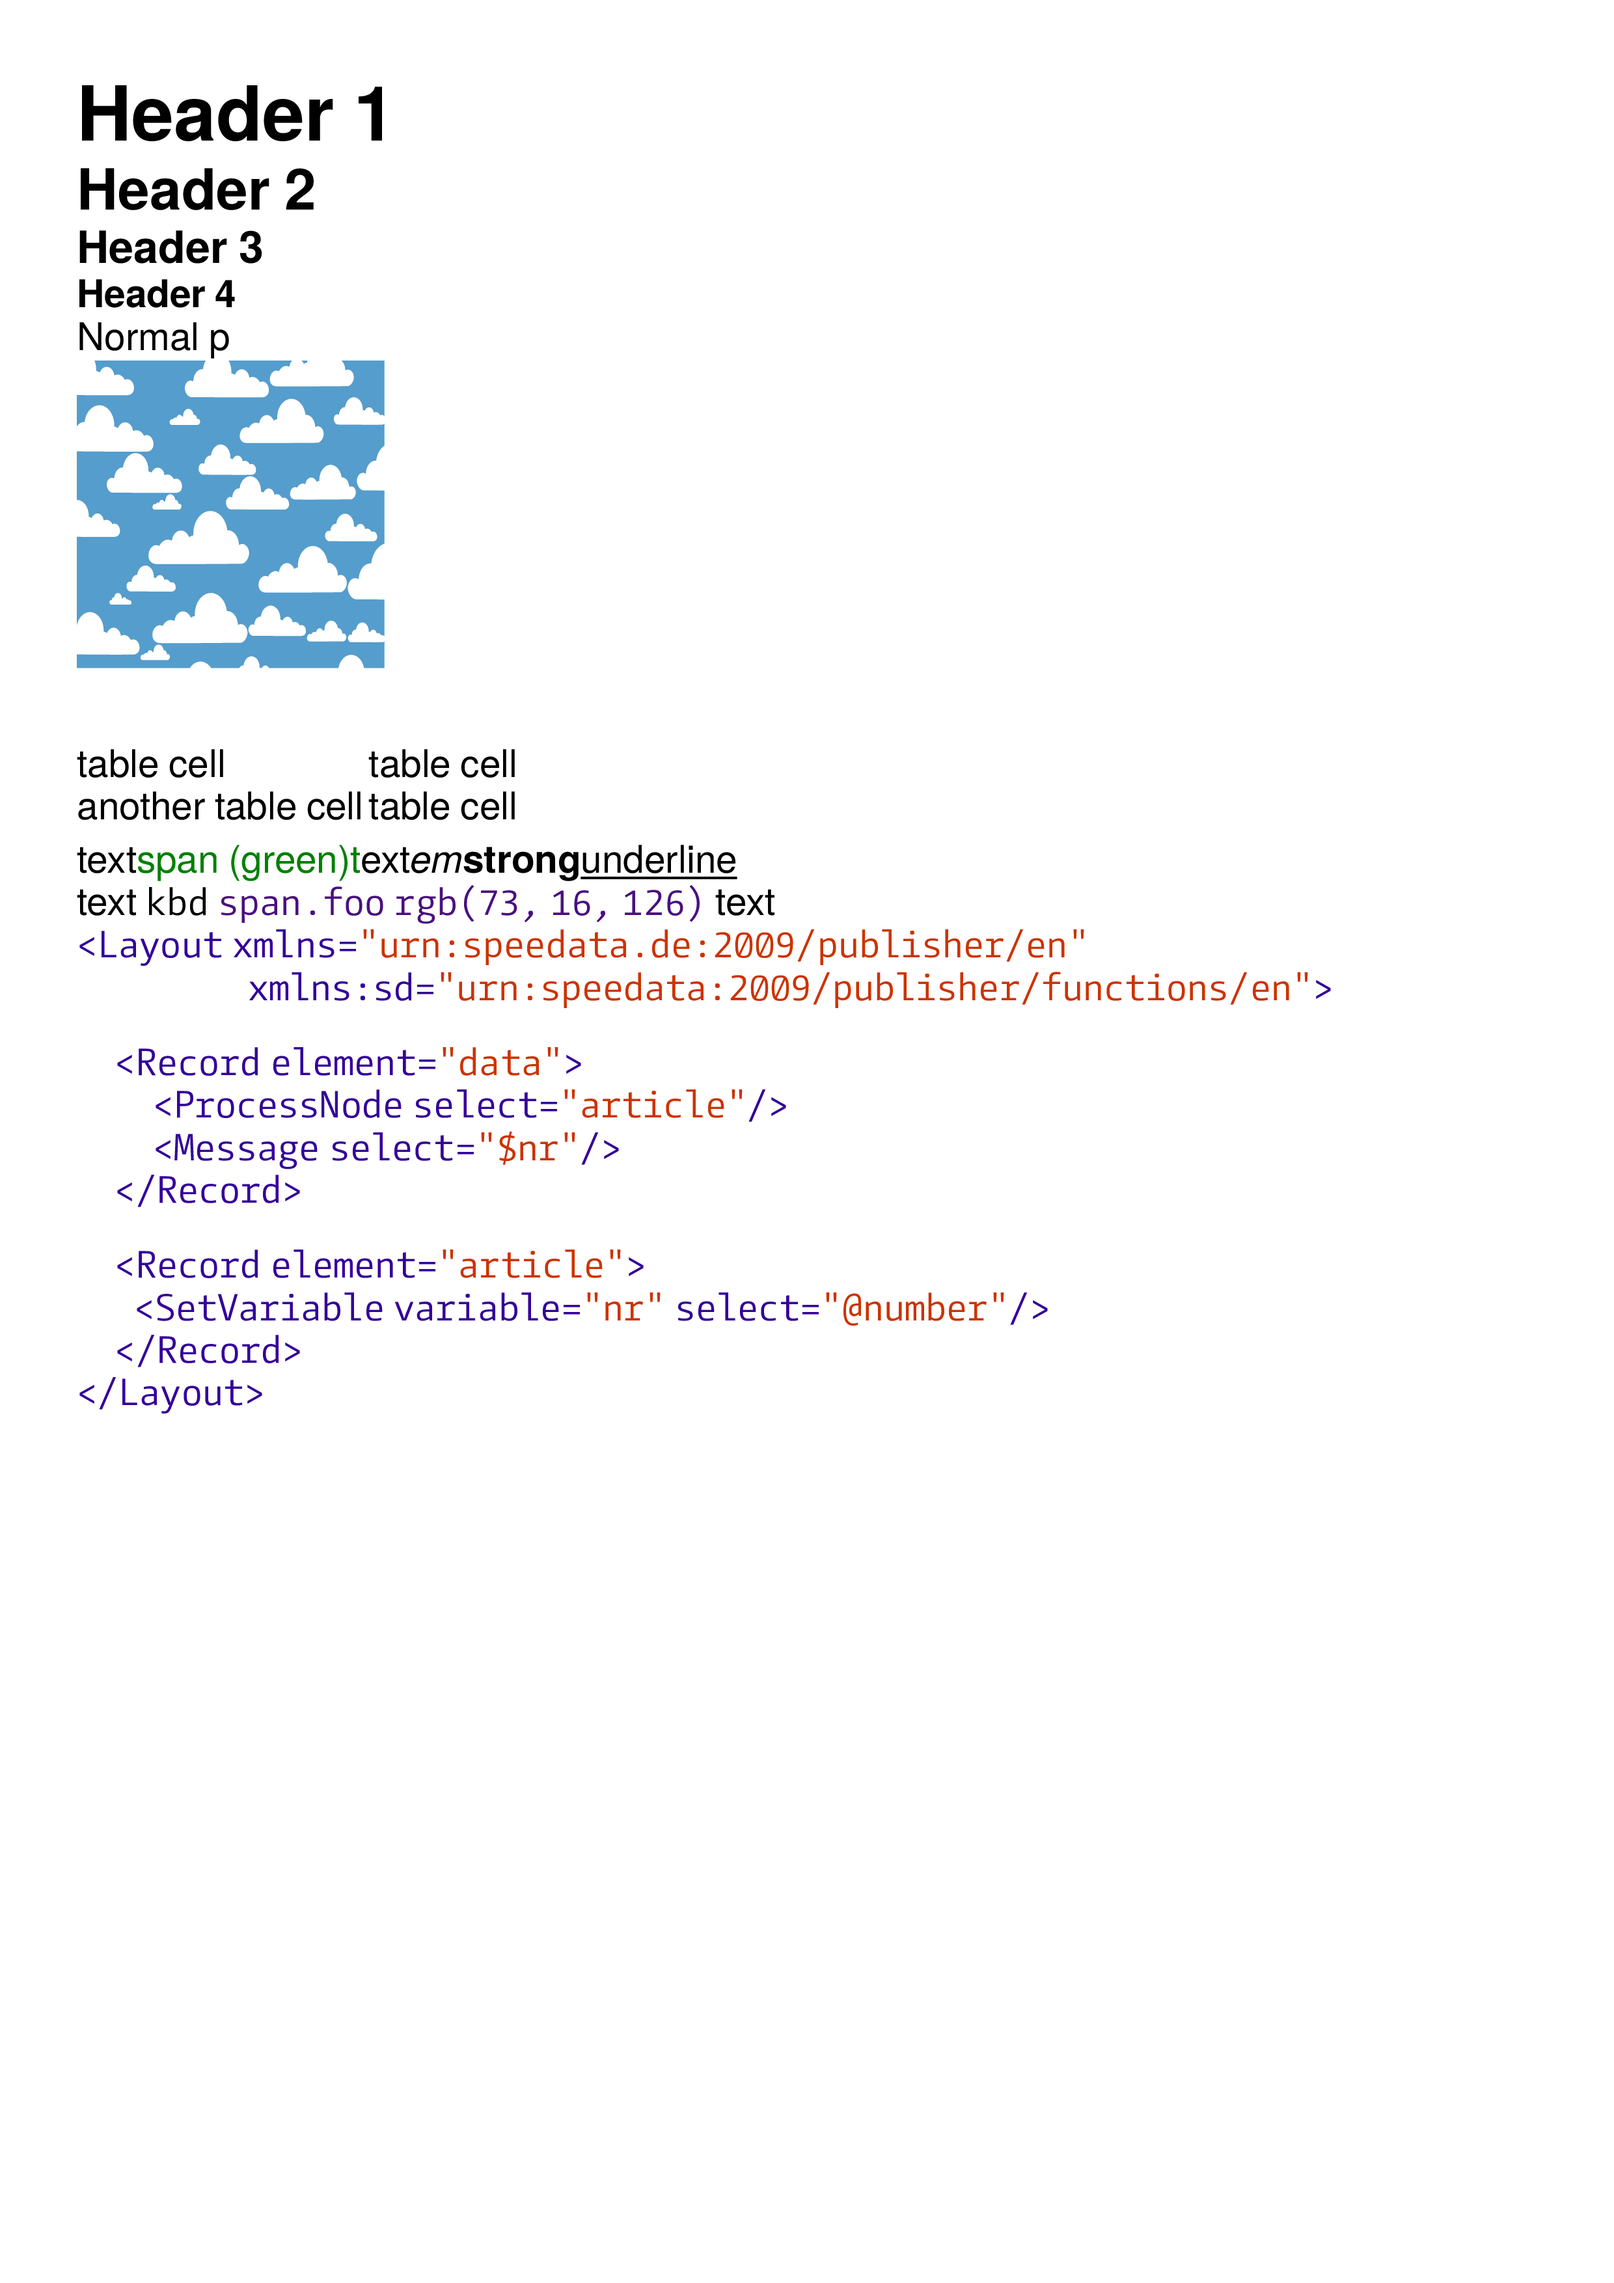
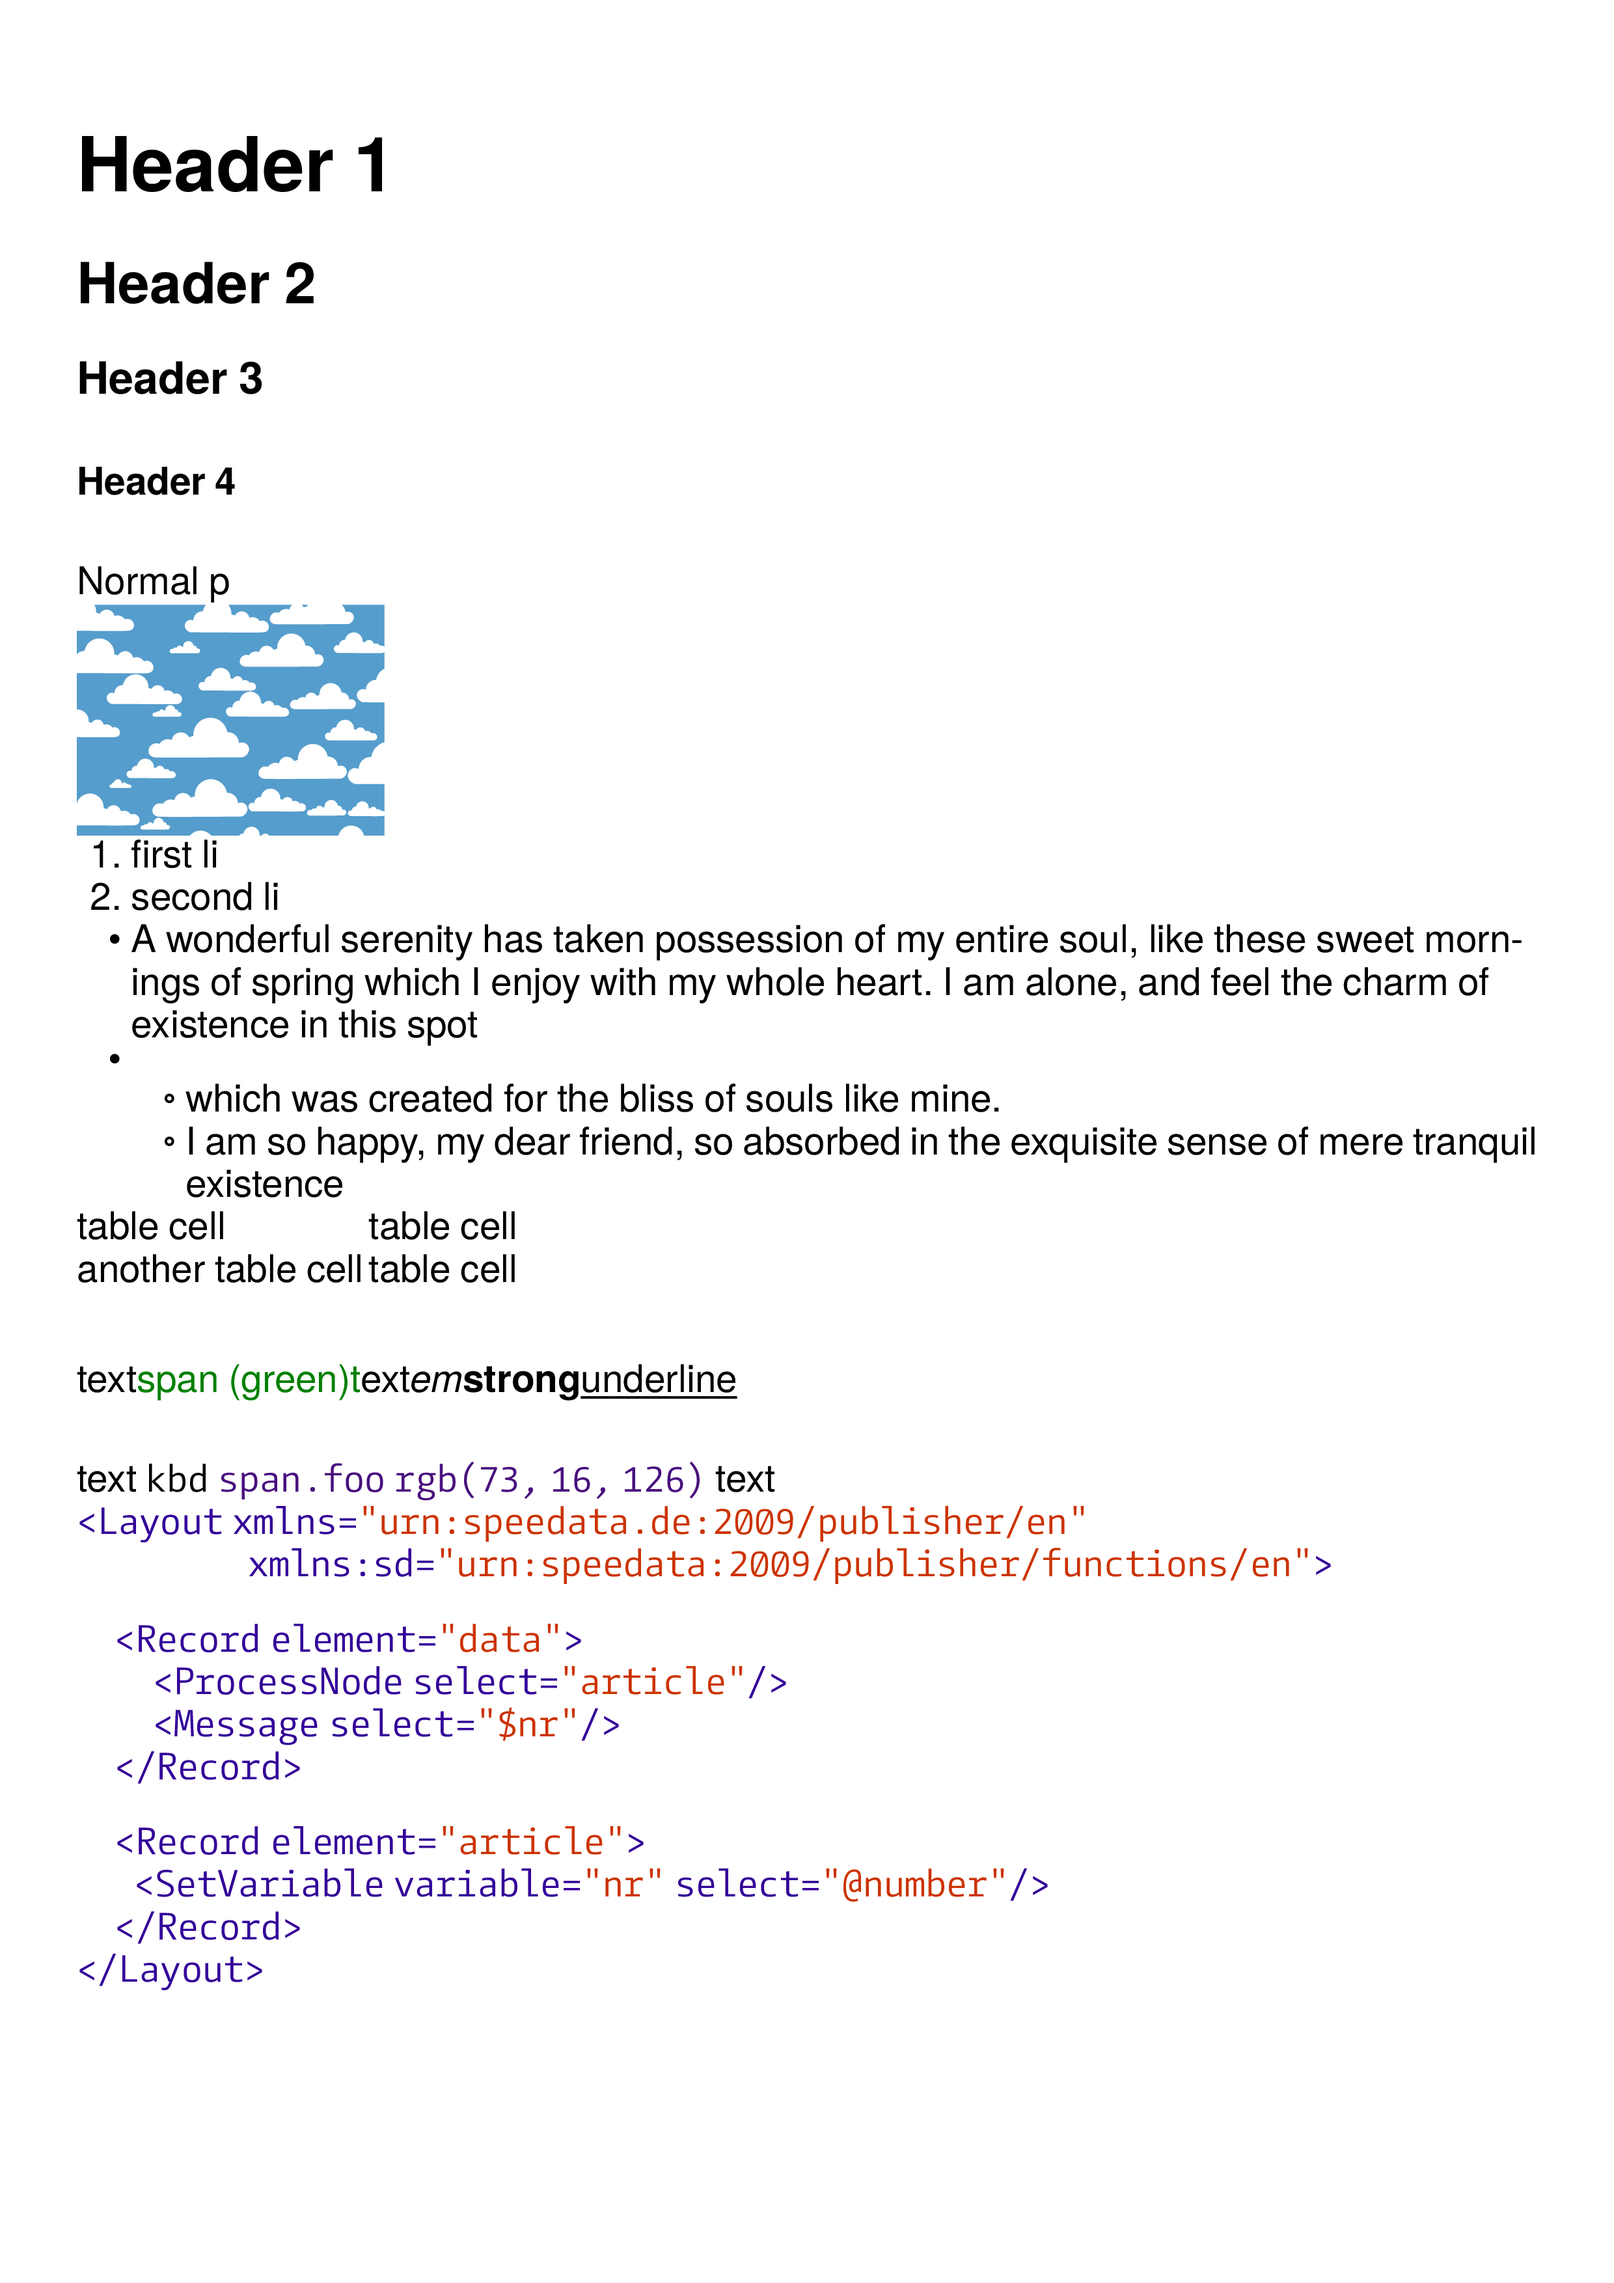
Update HTML example

diff --git a/technical/html/main.html b/technical/html/main.html
@@ -1,5 +1,12 @@
-<?xml version="1.0" encoding="UTF-8"?>
-<data><![CDATA[
+<!DOCTYPE html>
+<html lang="en">
+<head>
+  <meta charset="UTF-8">
+  <meta name="viewport" content="width=device-width, initial-scale=1.0">
+  <title>Document</title>
+  <link type="stylesheet" href="mystyle.css" >
+</head>
+<body>
   <h1>Header 1</h1>
   <h2>Header 2</h2>
   <h3>Header 3</h3>
@@ -8,10 +15,17 @@
 
    <img src="_samplea.pdf" >
 
-    <!-- <ol>
+    <ol>
       <li>first li</li>
       <li>second li</li>
-    </ol> -->
+    </ol>
+    <ul>
+      <li>A wonderful serenity has taken possession of my entire soul, like these sweet mornings of spring which I enjoy with my whole heart. I am alone, and feel the charm of existence in this spot</li>
+      <li><ul>
+        <li>which was created for the bliss of souls like mine.</li>
+        <li>I am so happy, my dear friend, so absorbed in the exquisite sense of mere tranquil existence</li>
+      </ul></li>
+    </ul>
 
     <table>
       <tr><td>table cell</td><td>table cell</td></tr>
@@ -34,5 +48,5 @@
     <span class="nt">&lt;/Record&gt;</span>
 <span class="nt">&lt;/Layout&gt;</span></pre>
 
-]]>
-</data>
+</body>
+</html>

diff --git a/technical/html/mystyle.css b/technical/html/mystyle.css
@@ -19,8 +19,8 @@
   src: url("OpenSans-BoldItalic.ttf");
   font-style: italic;
   font-weight: bold;
-} */
-
+}
+ */
 
 body {
   font-family: sans-serif;
@@ -41,12 +41,7 @@ span {color: green;}
 
 a { font-family: monospace;}
 
-img { width: 4cm; height: 4cm;}
-
-/* h1 { */
-  /* font-family: h1;
-  font-size: 12pt; */
-/* } */
+img { width: 4cm;}
 
 /* LineTableTD */
 .lntd {

diff --git a/technical/html/Readme.md b/technical/html/Readme.md
@@ -1,18 +1,49 @@
 To get the PDF:
 
-Run `sp` on the command line inside this directory.
+Run `sp html main.html` on the command line inside this directory.
 
 ----
 
-# The new HTML interface
+# The new standalone HTML interface
 
-A preliminary example of the new HTML interface (use with `sd:html()`)
+A preliminary example of the new HTML interface (also use with `sd:html()` in publisher mode, see below).
 Note that the Lua API is subject to change.
 
 ![Image of the result](firstpage.png)
 
-You can play with it, but most likely everything not covered in the source will not work. Expect updates to this
+You can play with it, but most likely everything not covered in the source will not work. Expect lots of updates to this.
 
-Needs speedata Publisher version >= 3.9.8.
+Needs speedata Publisher version >= 3.9.10.
 
 
+----
+
+The standalone interface uses this layout:
+
+```xml
+<Layout xmlns="urn:speedata.de:2009/publisher/en"
+        xmlns:sd="urn:speedata:2009/publisher/functions/en"
+        version="3.9.10">
+   <Stylesheet filename="mystyle.css"/>
+   <Record element="data">
+      <Output>
+         <Text>
+            <HTML>
+               <Value select="sd:html(.)"/>
+            </HTML>
+         </Text>
+      </Output>
+   </Record>
+</Layout>
+```
+
+and the data file similar as follows:
+
+```xml
+<?xml version="1.0" encoding="UTF-8"?>
+<data><![CDATA[
+  <h1>Header 1</h1>
+...
+]]>
+</data>
+```
